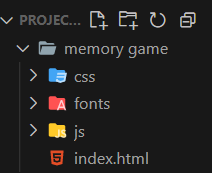
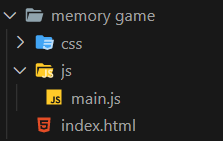
Tutorial text updated

diff --git a/tutorial/tutorial.html b/tutorial/tutorial.html
@@ -32,15 +32,13 @@
         noemen we "memory game".
       </p>
       <img src="./images/single-folder.png" alt="Folder-structure-added" />
-      <p>
-        Daarna gaan we de volgende folders aanmaken:
-        <ul>
-          <li>CSS</li>
-          <li>JS</li>
-          <li>FONTS</li>
-        </ul>
-        <img src="./images/folders.png" alt="Folder-structure-image" />
-      </p>
+      <p>Daarna gaan we de volgende folders aanmaken:</p>
+
+      <ul>
+        <li>CSS</li>
+        <li>JS</li>
+      </ul>
+      <img src="./images/folders.png" alt="Folder-structure-image" />
       <h2>Stap 2 - Creëer de index.html</h2>
       <p>
         De HTML code is de basis van de website. Hierin zetten we de structuur
@@ -54,31 +52,50 @@
         <li>
           Druk nu op <kbd>!</kbd> op je toetsen bord en daarna <kbd>ENTER</kbd>.
         </li>
-        <script
-          async
-          src="//jsfiddle.net/Vexciouz/tvh2x6jc/20/embed/css/dark/"
-        ></script>
+        <iframe
+          width="100%"
+          height="300"
+          src="//jsfiddle.net/Vexciouz/urvfbw7j/13/embedded/html/dark/"
+          allowfullscreen="allowfullscreen"
+          allowpaymentrequest
+          frameborder="0"
+        ></iframe>
         <li>
           Kopieër deze code en plaats het in de body tag, in deze code voegen we
           divs en een button toe om straks onze CSS en JavaScript op te baseren.
         </li>
-        <script
-          async
-          src="//jsfiddle.net/Vexciouz/tvh2x6jc/10/embed/html/dark/"
-        ></script>
+        <iframe
+          width="100%"
+          height="300"
+          src="//jsfiddle.net/Vexciouz/urvfbw7j/11/embedded/html/dark/"
+          allowfullscreen="allowfullscreen"
+          allowpaymentrequest
+          frameborder="0"
+        ></iframe>
         <li>
           Nu gaan we de CSS linken. Dit doen we door de volgende code te
           kopieëren en te plakken in de head tag.
         </li>
-        <script
-          async
-          src="//jsfiddle.net/Vexciouz/tvh2x6jc/12/embed/html/dark/"
-        ></script>
+        <iframe
+          width="100%"
+          height="300"
+          src="//jsfiddle.net/Vexciouz/urvfbw7j/15/embedded/html/dark/"
+          allowfullscreen="allowfullscreen"
+          allowpaymentrequest
+          frameborder="0"
+        ></iframe>
         <li>
           Nu gaan we de JavaScript linken. Dit doen we door de volgende code te
           kopieëren en te plakken in de body tag onderaan.
         </li>
-        <em>&lt;script src="js/main.js"&gt;&lt;/script&gt;</em>
+        <iframe
+          width="100%"
+          height="300"
+          src="//jsfiddle.net/Vexciouz/urvfbw7j/16/embedded/html/dark/"
+          allowfullscreen="allowfullscreen"
+          allowpaymentrequest
+          frameborder="0"
+        ></iframe>
       </ul>
       <h2>Stap 3 - CSS toevoegen</h2>
       <p>
@@ -90,10 +107,14 @@
           Nu gaan we de CSS toevoegen. Dit doen we door de volgende code te
           kopieëren en te plakken in de style.css file.
         </li>
-        <script
-          async
-          src="//jsfiddle.net/Vexciouz/tvh2x6jc/16/embed/css/dark/"
-        ></script>
+        <iframe
+          width="100%"
+          height="300"
+          src="//jsfiddle.net/Vexciouz/urvfbw7j/18/embedded/css/dark/"
+          allowfullscreen="allowfullscreen"
+          allowpaymentrequest
+          frameborder="0"
+        ></iframe>
         <li>
           Hier veranderen we de background naar een regenboog kleur met
           gradient, we zorgen er ook voor dat onze "game" in het midden komt te
@@ -122,10 +143,14 @@
           `<strong>Dimensions</strong>`: een constante die de dimensie van het
           bord aangeeft en deze waarde wordt uit de HTML gehaald.
         </li>
-        <script
-          async
-          src="//jsfiddle.net/Vexciouz/tvh2x6jc/22/embed/js/dark/"
-        ></script>
+        <iframe
+          width="100%"
+          height="300"
+          src="//jsfiddle.net/Vexciouz/urvfbw7j/20/embedded/js/dark/"
+          allowfullscreen="allowfullscreen"
+          allowpaymentrequest
+          frameborder="0"
+        ></iframe>
       </ul>
       <p>
         <strong>2.</strong> Vervolgens wordt de functie
@@ -152,10 +177,14 @@
           een nieuw bord gemaakt met deze HTML.
         </li>
         <li>Het nieuwe bord vervangt het oude bord.</li>
-        <script
-          async
-          src="//jsfiddle.net/Vexciouz/tvh2x6jc/24/embed/js/dark/"
-        ></script>
+        <iframe
+          width="100%"
+          height="300"
+          src="//jsfiddle.net/Vexciouz/urvfbw7j/22/embedded/js/dark/"
+          allowfullscreen="allowfullscreen"
+          allowpaymentrequest
+          frameborder="0"
+        ></iframe>
       </ul>
       <p>
         <strong>3.</strong> De functie `<strong>pickRandom</strong>` wordt
@@ -179,10 +208,14 @@
           nogmaals wordt geselecteerd.
         </li>
         <li>De `<strong>randomPicks</strong>` array wordt geretourneerd.</li>
-        <script
-          async
-          src="//jsfiddle.net/Vexciouz/tvh2x6jc/26/embed/js/dark/"
-        ></script>
+        <iframe
+          width="100%"
+          height="300"
+          src="//jsfiddle.net/Vexciouz/urvfbw7j/24/embedded/js/dark/"
+          allowfullscreen="allowfullscreen"
+          allowpaymentrequest
+          frameborder="0"
+        ></iframe>
       </ul>
       <p>
         <strong>4.</strong> De functie `<strong>shuffle</strong>` wordt
@@ -197,10 +230,14 @@
           item op een willekeurige index.
         </li>
         <li>De nieuwe array wordt geretourneerd.</li>
-        <script
-          async
-          src="//jsfiddle.net/Vexciouz/tvh2x6jc/29/embed/js/dark/"
-        ></script>
+        <iframe
+          width="100%"
+          height="300"
+          src="//jsfiddle.net/Vexciouz/urvfbw7j/29/embedded/js/dark/"
+          allowfullscreen="allowfullscreen"
+          allowpaymentrequest
+          frameborder="0"
+        ></iframe>
         <p></p>
       </ul>
 
@@ -213,38 +250,50 @@
           Als er op een kaart wordt geklikt en deze kaart nog niet is
           omgedraaid, wordt de functie `<strong>flipCard</strong>` opgeroepen
         </li>
-        <script
-          async
-          src="//jsfiddle.net/Vexciouz/tvh2x6jc/31/embed/js/dark/"
-        ></script>
+        <iframe
+          width="100%"
+          height="300"
+          src="//jsfiddle.net/Vexciouz/urvfbw7j/31/embedded/js/dark/"
+          allowfullscreen="allowfullscreen"
+          allowpaymentrequest
+          frameborder="0"
+        ></iframe>
       </ul>
       <p>
-        <strong>6.</strong> De functie `startGame()` start het spel. De
-        startknop wordt uitgeschakeld en de timer begint te lopen.
+        <strong>6.</strong> De functie `<strong>startGame()</strong>` start het
+        spel. De startknop wordt uitgeschakeld en de timer begint te lopen.
       </p>
       <ul>
-        <script
-          async
-          src="//jsfiddle.net/Vexciouz/tvh2x6jc/32/embed/js/dark/"
-        ></script>
+        <iframe
+          width="100%"
+          height="300"
+          src="//jsfiddle.net/Vexciouz/urvfbw7j/32/embedded/js/dark/"
+          allowfullscreen="allowfullscreen"
+          allowpaymentrequest
+          frameborder="0"
+        ></iframe>
       </ul>
       <p>
-        <strong>7.</strong> De `flipCard` functie handelt het omdraaien van de
-        kaarten af. Het neemt een `card` parameter, die de kaart is die is
-        aangeklikt. De functie controleert of het spel al is gestart en begint
-        zo nodig een nieuwe timer. Het voegt de `flipped` class toe aan de kaart
-        die is aangeklikt en houdt bij hoeveel kaarten er zijn omgedraaid. Als
-        er twee kaarten zijn omgedraaid, controleert de functie of ze
-        overeenkomen. Als dit het geval is, voegt de functie de `matched` class
-        toe aan de kaarten en controleert of de speler het spel heeft gewonnen.
-        Als er geen match is, draait de functie de kaarten na 1 seconde weer
-        terug.
+        <strong>7.</strong> De `<strong>flipCard</strong>` functie handelt het
+        omdraaien van de kaarten af. Het neemt een `card` parameter, die de
+        kaart is die is aangeklikt. De functie controleert of het spel al is
+        gestart en begint zo nodig een nieuwe timer. Het voegt de `flipped`
+        class toe aan de kaart die is aangeklikt en houdt bij hoeveel kaarten er
+        zijn omgedraaid. Als er twee kaarten zijn omgedraaid, controleert de
+        functie of ze overeenkomen. Als dit het geval is, voegt de functie de
+        `matched` class toe aan de kaarten en controleert of de speler het spel
+        heeft gewonnen. Als er geen match is, draait de functie de kaarten na 1
+        seconde weer terug.
       </p>
       <ul>
-        <script
-          async
-          src="//jsfiddle.net/Vexciouz/tvh2x6jc/34/embed/js/dark/"
-        ></script>
+        <iframe
+          width="100%"
+          height="300"
+          src="//jsfiddle.net/Vexciouz/urvfbw7j/35/embedded/js/dark/"
+          allowfullscreen="allowfullscreen"
+          allowpaymentrequest
+          frameborder="0"
+        ></iframe>
       </ul>
       <p>
         <strong>8.</strong> De `flipBackCards` functie draait alle kaarten terug
@@ -252,10 +301,14 @@
         kaarten naar 0.
       </p>
       <ul>
-        <script
-          async
-          src="//jsfiddle.net/Vexciouz/tvh2x6jc/36/embed/js/dark/"
-        ></script>
+        <iframe
+          width="100%"
+          height="300"
+          src="//jsfiddle.net/Vexciouz/urvfbw7j/37/embedded/js/dark/"
+          allowfullscreen="allowfullscreen"
+          allowpaymentrequest
+          frameborder="0"
+        ></iframe>
       </ul>
       <p>
         <strong>9.</strong> De `checkWinGames` functie controleert of alle
@@ -264,20 +317,28 @@
         feliciteert.
       </p>
       <ul>
-        <script
-          async
-          src="//jsfiddle.net/Vexciouz/tvh2x6jc/37/embed/js/dark/"
-        ></script>
+        <iframe
+          width="100%"
+          height="300"
+          src="//jsfiddle.net/Vexciouz/urvfbw7j/38/embedded/js/dark/"
+          allowfullscreen="allowfullscreen"
+          allowpaymentrequest
+          frameborder="0"
+        ></iframe>
       </ul>
       <p>
         <strong>10.</strong> De `winGame` functie laat een alert zien om de
         speler te feliciteren met het winnen van het spel.
       </p>
       <ul>
-        <script
-          async
-          src="//jsfiddle.net/Vexciouz/tvh2x6jc/39/embed/js/dark/"
-        ></script>
+        <iframe
+          width="100%"
+          height="300"
+          src="//jsfiddle.net/Vexciouz/urvfbw7j/40/embedded/js/dark/"
+          allowfullscreen="allowfullscreen"
+          allowpaymentrequest
+          frameborder="0"
+        ></iframe>
       </ul>
       <p>
         <strong>11.</strong> Ten slotte roepen we de `generateGame` en
@@ -285,10 +346,14 @@
         listeners aan de document toe te voegen.
       </p>
       <ul>
-        <script
-          async
-          src="//jsfiddle.net/Vexciouz/tvh2x6jc/40/embed/js/dark/"
-        ></script>
+        <iframe
+          width="100%"
+          height="300"
+          src="//jsfiddle.net/Vexciouz/urvfbw7j/41/embedded/js/dark/"
+          allowfullscreen="allowfullscreen"
+          allowpaymentrequest
+          frameborder="0"
+        ></iframe>
       </ul>
       <h4>
         Als je alles bij elkaar voegt, heb je een werkend memory spel dat
@@ -296,10 +361,14 @@
       </h4>
       <p>Zo zal je code eruit zien op het einde!!!</p>
       <ul>
-        <script
-          async
-          src="//jsfiddle.net/Vexciouz/tvh2x6jc/42/embed/js/dark/"
-        ></script>
+        <iframe
+          width="100%"
+          height="300"
+          src="//jsfiddle.net/Vexciouz/urvfbw7j/5/embedded/js,html,css/dark/"
+          allowfullscreen="allowfullscreen"
+          allowpaymentrequest
+          frameborder="0"
+        ></iframe>
       </ul>
     </div>
     <footer>
